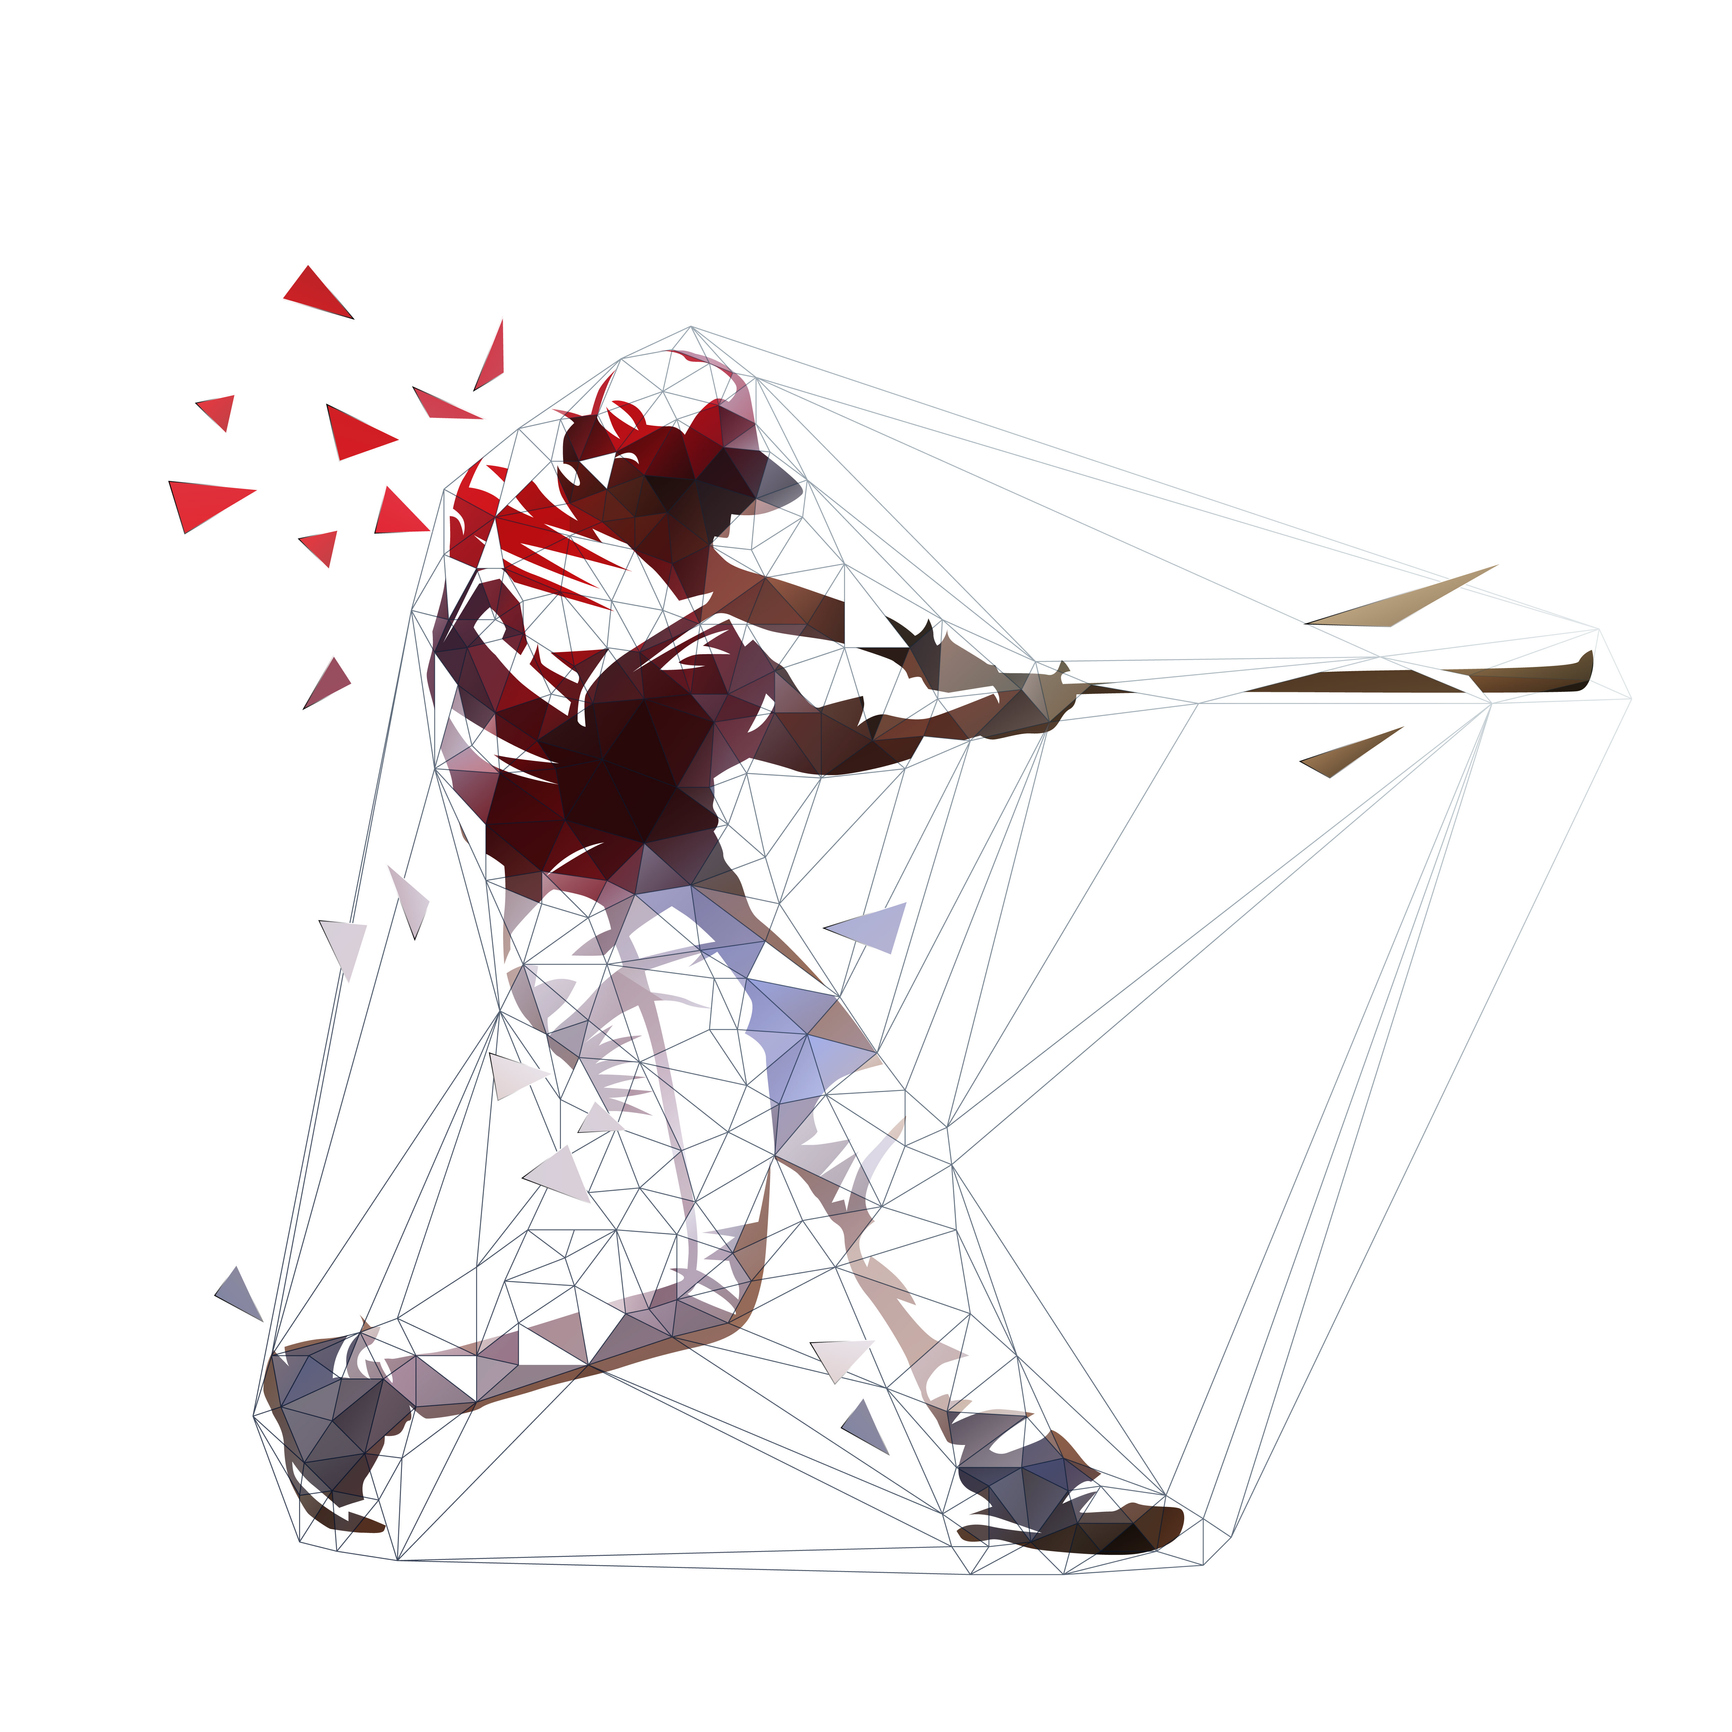
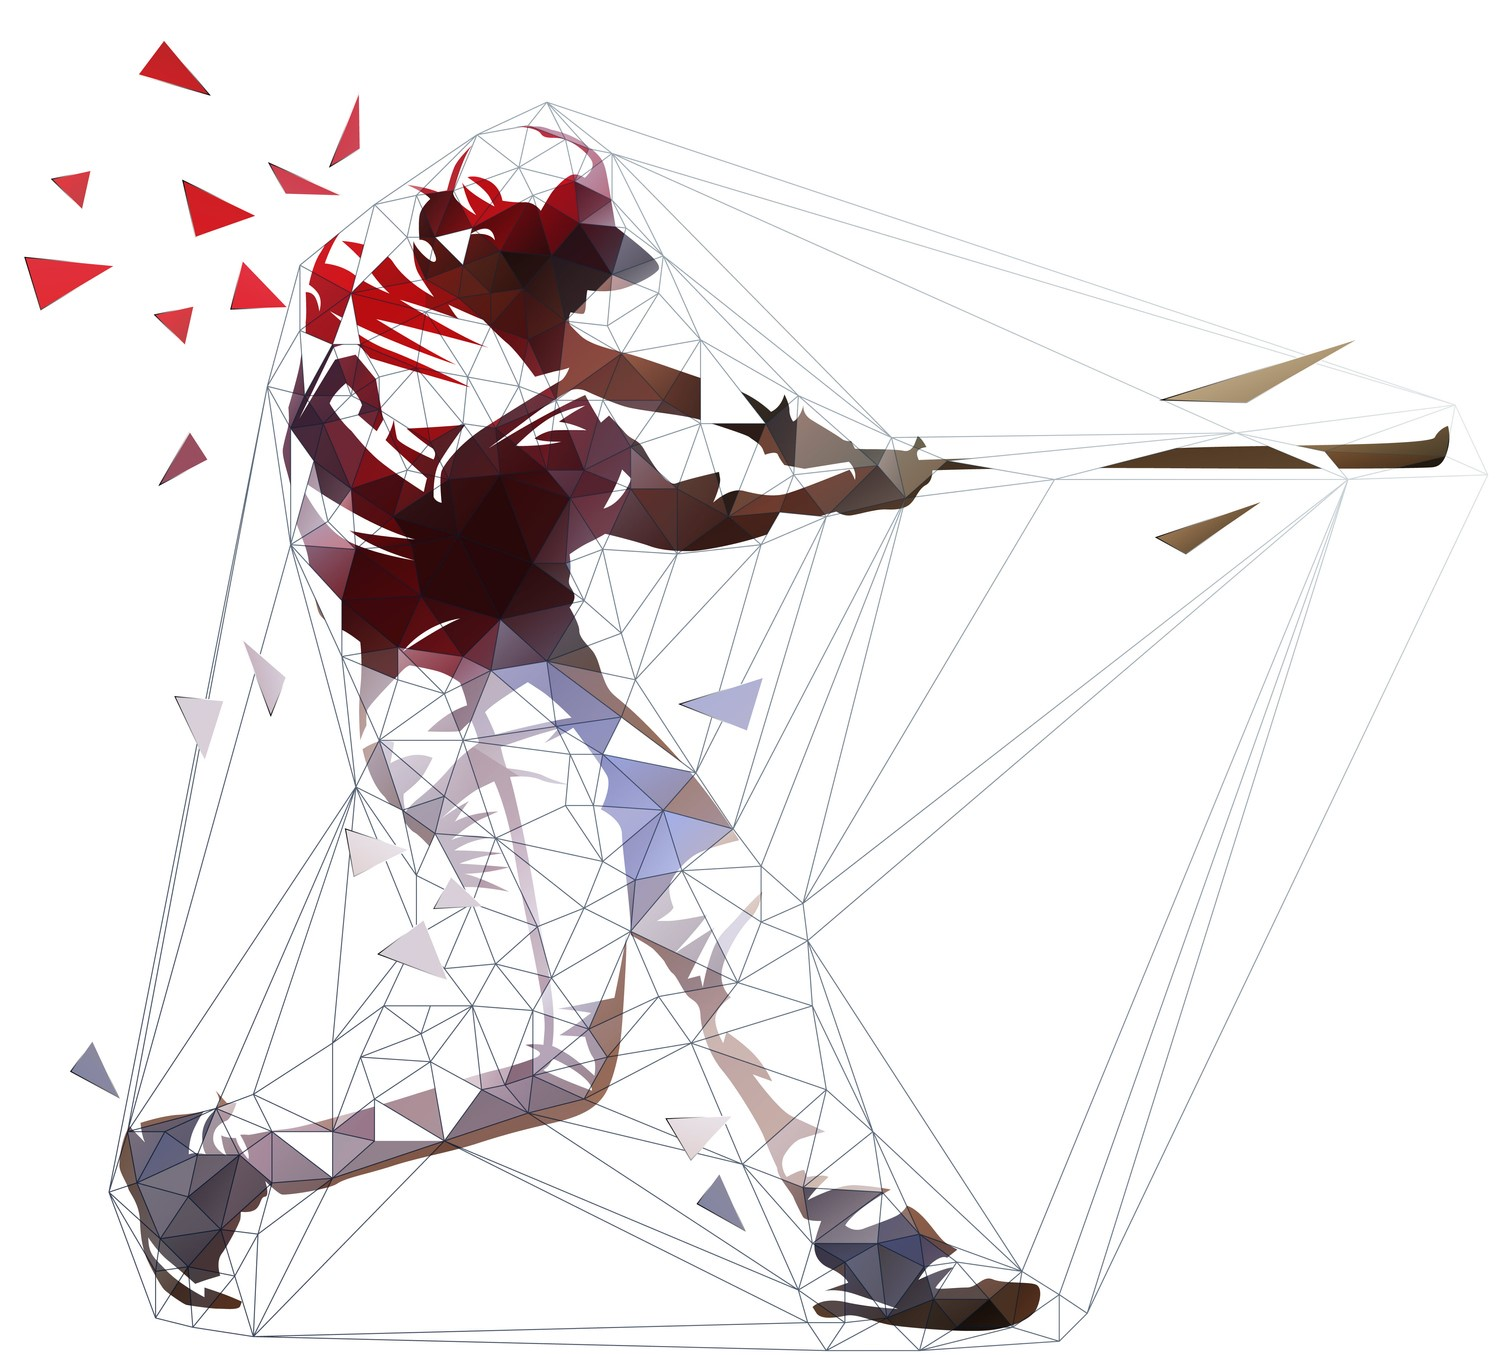
Crop picture and change styling

diff --git a/pages/profiles/player-request.tsx b/pages/profiles/player-request.tsx
@@ -21,8 +21,8 @@ type Props = {
 export const formContainer = css`
   display: flex;
   align-items: center;
-  margin-top: 30px;
-  margin-bottom: 30px;
+  justify-content: space-around;
+  margin: 50px;
 
   form {
     display: flex;
@@ -88,7 +88,6 @@ export const formContainer = css`
 const imageContainer = css`
   display: flex;
   justify-content: center;
-  padding-left: 50px;
 
   @media (max-width: 1024px) {
     width: 50%;
@@ -133,8 +132,8 @@ export default function PlayerRequest(props: Props) {
           <Image
             alt="Baseball Player hitting ball"
             src="/images/baseball-player.jpg"
-            width="750px"
-            height="750px"
+            width="600px"
+            height="600px"
           />
         </div>
         <form
